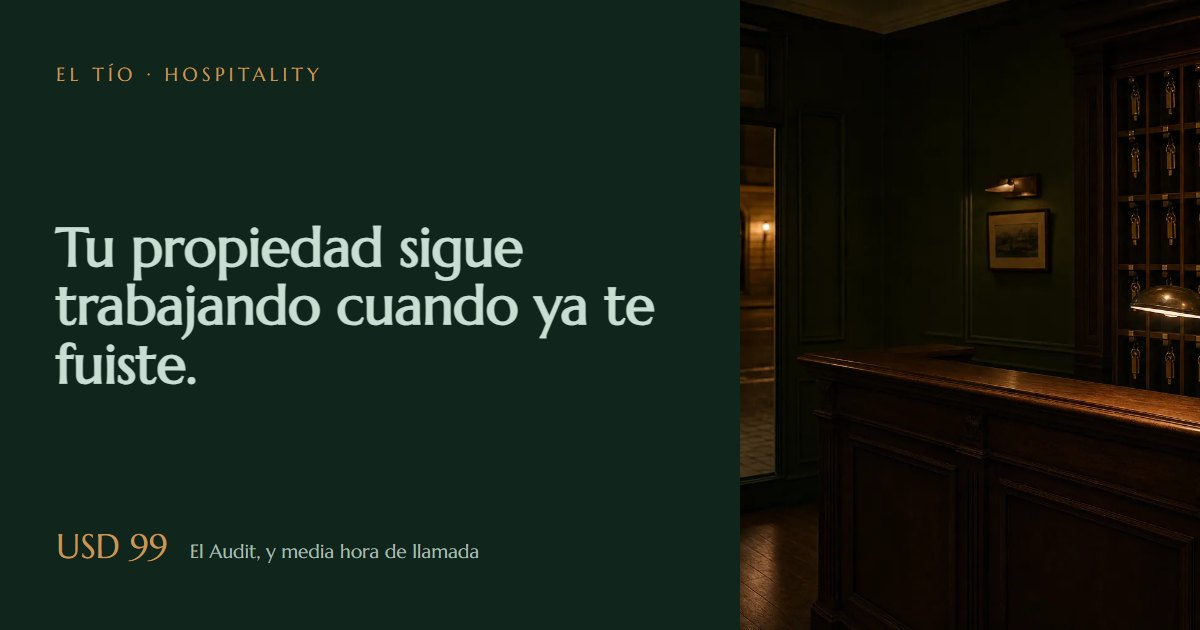
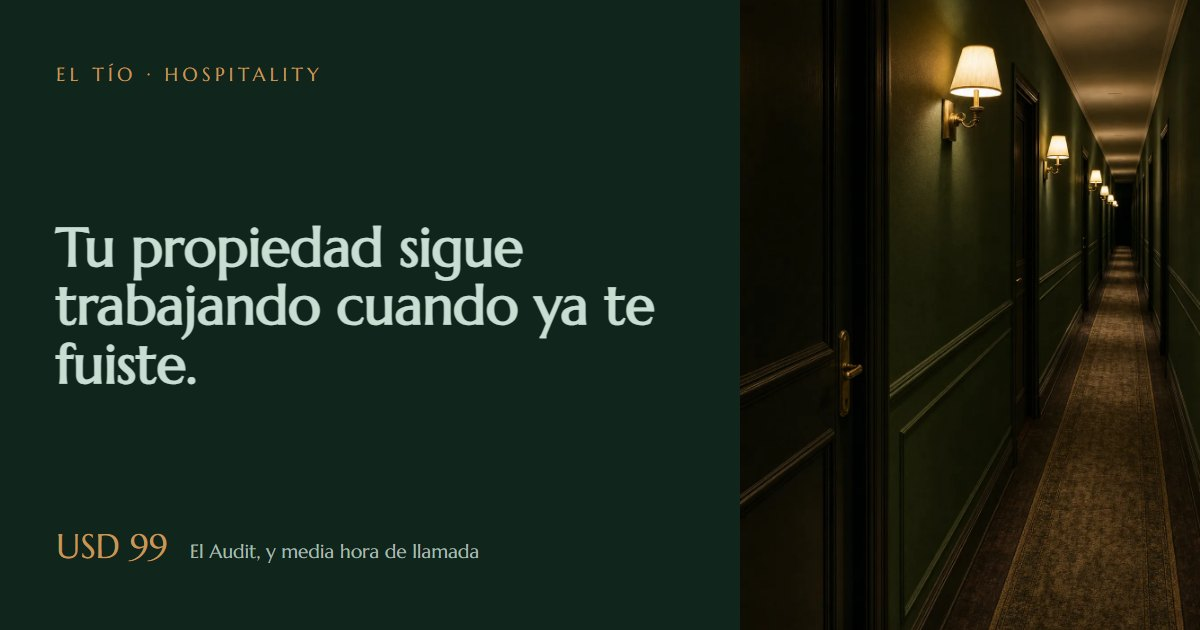
feat: las ocho fotografias de trastienda de hospitality
Sale del generador. La pagina pasa de cinco imagenes a nueve y de 9.011 a 11.527 pixeles de
alto, y cada foto nueva esta donde su parrafo la pide: los casilleros en la base, el
tablero de estado en lo que auditamos, el pasillo de servicio en el problema, y las cuatro
de la banda con su hora.

Un defecto de la hoja que aparecio al agregar una seccion: el resto de la pagina separa a
mano con `style="margin-top"` en cada elemento, asi que una seccion nueva sin esos
atributos sale con el titulo pegado a la bajada. Se resolvio en la hoja, que es donde
deberia haber estado desde el principio.

Medido a 1440, 390 y 320x256: cero desborde, cero textos encimados, ningun bloque
invisible, cero errores de pagina y ningun recurso que falle.

diff --git a/hospitality/index.html b/hospitality/index.html
@@ -13,7 +13,6 @@
 <meta property="og:image" content="https://eltio.net/assets/og-hospitality.jpg">
 <meta name="twitter:card" content="summary_large_image">
 <meta name="theme-color" content="#10251c">
-<link rel="preload" as="image" href="../assets/ho-llegada-noche.webp">
 <link rel="preload" as="font" type="font/woff2" href="../assets/fonts/marcellus.woff2" crossorigin>
 <link rel="stylesheet" href="../assets/fonts/fonts.css">
 <link rel="stylesheet" href="../hospitality.css">
@@ -81,9 +80,25 @@
         <p class="hora">Una consulta que entra a las once de la noche espera hasta la mañana.</p>
       </div>
       <figure class="montada">
-        <img src="../assets/ho-pasillo-umbral.webp" alt="Pasillo de habitaciones con luz baja y puertas cerradas" width="1536" height="1024" loading="lazy">
+        <img src="../assets/ho-pasillo-servicio.webp" srcset="../assets/ho-pasillo-servicio-480.webp 480w, ../assets/ho-pasillo-servicio-768.webp 768w, ../assets/ho-pasillo-servicio.webp 1024w" sizes="(max-width: 900px) 92vw, 44vw" alt="Pasillo de servicio de un hotel de noche, con los apliques encendidos y las puertas cerradas" width="1024" height="1536" loading="lazy">
         <figcaption>El pasillo, a la hora en que nadie mira</figcaption>
       </figure>
+    </div>
+  </div>
+</section>
+
+<section class="umbral trastienda" id="trastienda">
+  <div class="planta">
+    <p class="rotulo">LA TRASTIENDA</p>
+    <h2>Todo esto pasa cuando no hay nadie mirando.</h2>
+    <p class="bajada">Es el trabajo del que ninguna página de este rubro muestra una sola
+    foto. Y es exactamente donde se pierde el dato: en el turno noche, en la lista del día,
+    en el office y en el cierre.</p>
+    <div class="tras-tira">
+      <figure class="tras-pieza" data-revela><img src="../assets/ho-turno-noche.webp" srcset="../assets/ho-turno-noche-480.webp 480w, ../assets/ho-turno-noche-768.webp 768w, ../assets/ho-turno-noche-1200.webp 1200w, ../assets/ho-turno-noche.webp 1536w" sizes="(max-width: 760px) 92vw, 24vw" alt="Mostrador de recepción de noche, con una lámpara de bronce encendida, el libro cerrado y la campanilla" width="1536" height="1024" loading="lazy" decoding="async"><figcaption><span class="tras-hora">23:40</span>Alguien atiende, o no atiende nadie.</figcaption></figure>
+      <figure class="tras-pieza" data-revela><img src="../assets/ho-llegadas-dia.webp" srcset="../assets/ho-llegadas-dia-480.webp 480w, ../assets/ho-llegadas-dia-768.webp 768w, ../assets/ho-llegadas-dia-1200.webp 1200w, ../assets/ho-llegadas-dia.webp 1536w" sizes="(max-width: 760px) 92vw, 24vw" alt="Planilla del día sobre una tabla apoyada en el mostrador, con la campanilla al lado" width="1536" height="1024" loading="lazy" decoding="async"><figcaption><span class="tras-hora">07:15</span>La lista del día, escrita a mano otra vez.</figcaption></figure>
+      <figure class="tras-pieza" data-revela><img src="../assets/ho-office-mucamas.webp" srcset="../assets/ho-office-mucamas-480.webp 480w, ../assets/ho-office-mucamas-768.webp 768w, ../assets/ho-office-mucamas-1200.webp 1200w, ../assets/ho-office-mucamas.webp 1536w" sizes="(max-width: 760px) 92vw, 24vw" alt="Office de mucamas con estanterías de ropa blanca doblada y el carro cargado" width="1536" height="1024" loading="lazy" decoding="async"><figcaption><span class="tras-hora">11:00</span>Qué habitación está lista y cuál no.</figcaption></figure>
+      <figure class="tras-pieza" data-revela><img src="../assets/ho-cierre-caja.webp" srcset="../assets/ho-cierre-caja-480.webp 480w, ../assets/ho-cierre-caja-768.webp 768w, ../assets/ho-cierre-caja-1200.webp 1200w, ../assets/ho-cierre-caja.webp 1536w" sizes="(max-width: 760px) 92vw, 24vw" alt="Cierre de caja sobre un escritorio verde, con el formulario, la bandeja de bronce y los comprobantes boca abajo" width="1536" height="1024" loading="lazy" decoding="async"><figcaption><span class="tras-hora">23:55</span>El cierre, que nadie cruza con nada.</figcaption></figure>
     </div>
   </div>
 </section>
@@ -103,6 +118,10 @@
         <div class="casillero"><span class="sala">06</span><h3>EQUIPO</h3><p>Qué puede resolver la recepción con mejores herramientas.</p></div>
         <div class="casillero"><span class="sala">07</span><h3>SOFTWARE</h3><p>PMS, motor de reservas, channel manager y qué no se habla con qué.</p></div>
     </div>
+    <figure class="montada" data-revela style="margin-top:var(--n5)">
+      <img src="../assets/ho-tablero-estado.webp" srcset="../assets/ho-tablero-estado-480.webp 480w, ../assets/ho-tablero-estado-768.webp 768w, ../assets/ho-tablero-estado-1200.webp 1200w, ../assets/ho-tablero-estado.webp 1536w" sizes="(max-width: 900px) 92vw, 62vw" alt="Tablero de estado de habitaciones en el office, con casilleros de bronce numerados y algunas fichas puestas" width="1536" height="1152" loading="lazy" decoding="async">
+      <figcaption>El tablero de estado. Existe en la pared y no existe en ningún sistema.</figcaption>
+    </figure>
   </div>
 </section>
 
@@ -118,7 +137,7 @@
         <div class="casillero"><span class="sala">04</span><h3>Capacitamos</h3><p>Tu equipo queda sabiendo operarlo. Si no, en tres meses no lo usa nadie.</p></div>
     </div>
     <figure class="montada" style="margin-top:var(--n5)">
-      <img src="../assets/ho-tablero-llaves.webp" alt="Tablero de llaves de recepción con casilleros numerados" width="1536" height="1024" loading="lazy">
+      <img src="../assets/ho-llaves-casillero.webp" srcset="../assets/ho-llaves-casillero-480.webp 480w, ../assets/ho-llaves-casillero-768.webp 768w, ../assets/ho-llaves-casillero.webp 1024w" sizes="(max-width: 900px) 92vw, 44vw" alt="Pared de casilleros de madera detrás de la recepción, con algunas llaves de bronce colgadas y la mayoría vacíos" width="1024" height="1024" loading="lazy">
       <figcaption>Cada llave en su casillero</figcaption>
     </figure>
   </div>

diff --git a/hospitality.css b/hospitality.css
@@ -383,3 +383,55 @@ figcaption {
 @media (forced-colors: active) {
   .pasillo-lienzo { border: 1px solid CanvasText; }
 }
+
+
+/* ------------------------------------------------------------------- la trastienda
+   La banda del trabajo que no se ve. Cuatro piezas con su hora: el turno noche, la
+   lista del dia, el office y el cierre. Van con la hora porque en este rubro el
+   trabajo se ordena por turno, y porque la hora es lo que prueba que eso pasa
+   cuando el dueno no esta. */
+
+/* El resto de la pagina separa a mano con `style="margin-top"`, asi que una seccion
+   nueva sin esos atributos sale con el titulo pegado a la bajada. Se resuelve en la hoja,
+   que es donde deberia haber estado siempre. */
+.trastienda h2 { margin-top: var(--n2); }
+.trastienda .bajada { margin-top: var(--n3); }
+
+.tras-tira {
+  display: grid;
+  grid-template-columns: repeat(4, minmax(0, 1fr));
+  gap: var(--n3);
+  margin-top: var(--n5);
+}
+.tras-pieza { margin: 0; }
+.tras-pieza img {
+  width: 100%;
+  height: auto;
+  aspect-ratio: 4 / 3;
+  object-fit: cover;
+  border: 1px solid var(--linea);
+}
+.tras-pieza figcaption {
+  font-family: var(--texto);
+  font-size: 14px;
+  line-height: 1.5;
+  color: var(--cal-suave);
+  margin-top: var(--n2);
+}
+.tras-hora {
+  display: block;
+  font-family: var(--dato);
+  font-size: 12px;
+  letter-spacing: 0.08em;
+  color: var(--laton);
+  margin-bottom: 4px;
+}
+@media (max-width: 980px) { .tras-tira { grid-template-columns: repeat(2, minmax(0, 1fr)); } }
+@media (max-width: 560px) { .tras-tira { grid-template-columns: 1fr; } }
+
+[data-revela] { opacity: 0; transform: translateY(12px); transition: opacity 0.6s ease, transform 0.6s ease; }
+[data-revela].visible { opacity: 1; transform: none; }
+html:not(.js) [data-revela] { opacity: 1; transform: none; }
+@media (prefers-reduced-motion: reduce) {
+  [data-revela] { opacity: 1; transform: none; transition: none; }
+}
